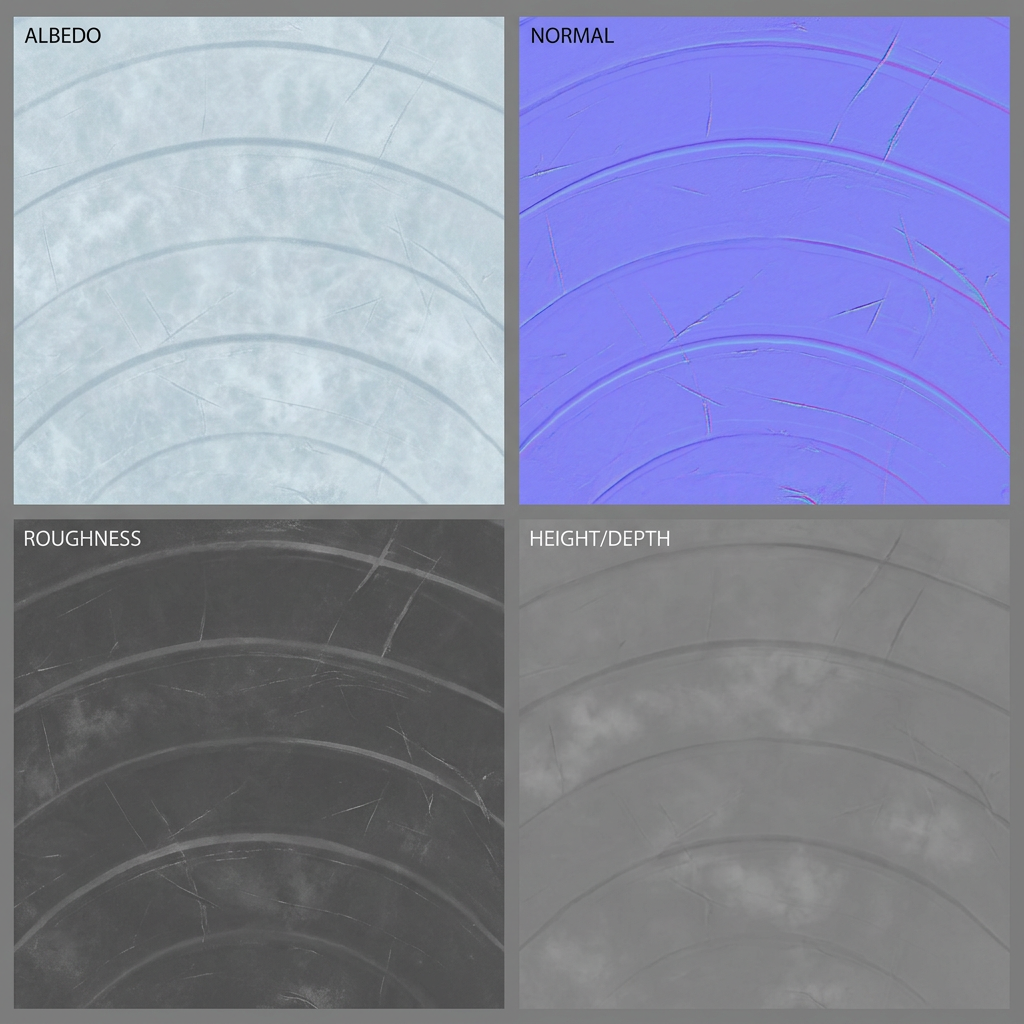
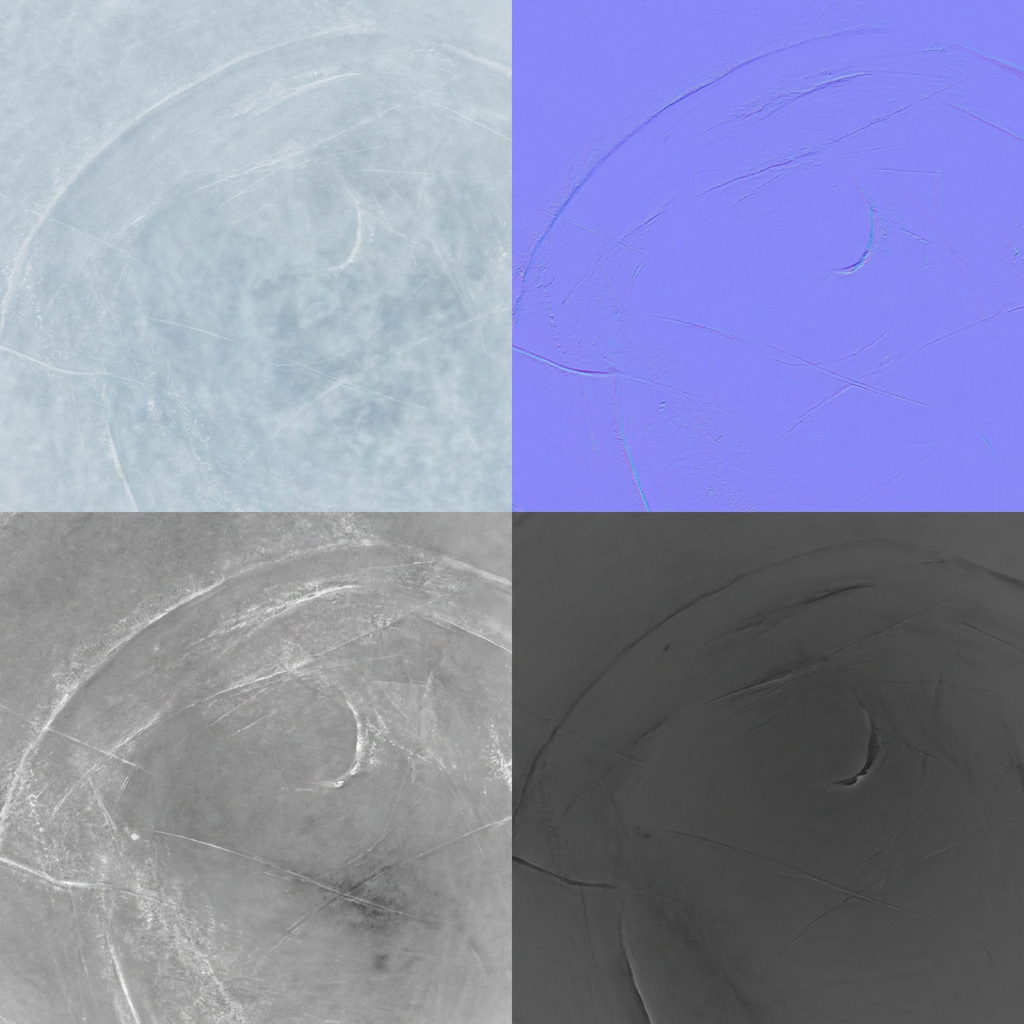
Complete global sports surface presets

diff --git a/art-src/meshy/material-refs/README.md b/art-src/meshy/material-refs/README.md
@@ -873,11 +873,26 @@ M432, M433 and M437 pass after strict regeneration from shared authoritative fie
 
 ## Next material batches
 
-### Batch 49 — global sports playing surfaces — in progress
+## Material Batch 49 — global sports playing surfaces
 
-![Material Batch 49 partial contact sheet](./review/material-batch-49-sports-surfaces-partial-contact-sheet.jpg)
+![Material Batch 49 contact sheet](./review/material-batch-49-global-sports-surfaces-contact-sheet.jpg)
 
-Generated M442–M445 and M447–M450. M442 artificial turf, M443 clay court, M444 acrylic hard court, M448 pool-deck tile and M449 combat mat pass. M445 timber court requires a strict four-quadrant regeneration; M447 ice requires removal of generated labels; M450 beach-sport sand lacks a clear BaseColor quadrant. M441 natural turf and M446 athletics rubber remain pending after the image service returned resource-exhaustion errors. All existing sheets have canonical `SPT` catalog records.
+| ID | Sports surface | Primary uses | Review |
+|---|---|---|---|
+| M441 | Natural turf | Football, rugby, cricket, hockey and field sports | Pass. |
+| M442 | Artificial turf | Football, hockey, rugby and multi-sport grounds | Pass. |
+| M443 | Clay court | Tennis and regional clay-court sports | Pass. |
+| M444 | Acrylic hard court | Tennis, basketball, netball, volleyball, handball and futsal | Pass. |
+| M445 | Indoor timber court | Basketball, volleyball, badminton, handball and futsal | Pass after R02 regeneration. |
+| M446 | Athletics-track rubber | Running and field-event approaches | Pass. |
+| M447 | Maintained sports ice | Ice hockey, curling and skating | Pass after R02 regeneration. |
+| M448 | Pool-deck tile | Swimming and water polo venues | Pass. |
+| M449 | Combat/gymnastics mat | Judo, wrestling, taekwondo, MMA and landing areas | Pass. |
+| M450 | Groomed beach sand | Beach football, volleyball, handball, wrestling and athletics | Pass after R02 regeneration. |
+
+All surfaces remain free of baked sport markings so multiple rule presets can reuse them. Canonical `SPT` records are registered for M441–M450.
+
+## Next material batches
 
 ### Batches 50–51 — global sports preset foundations
 
